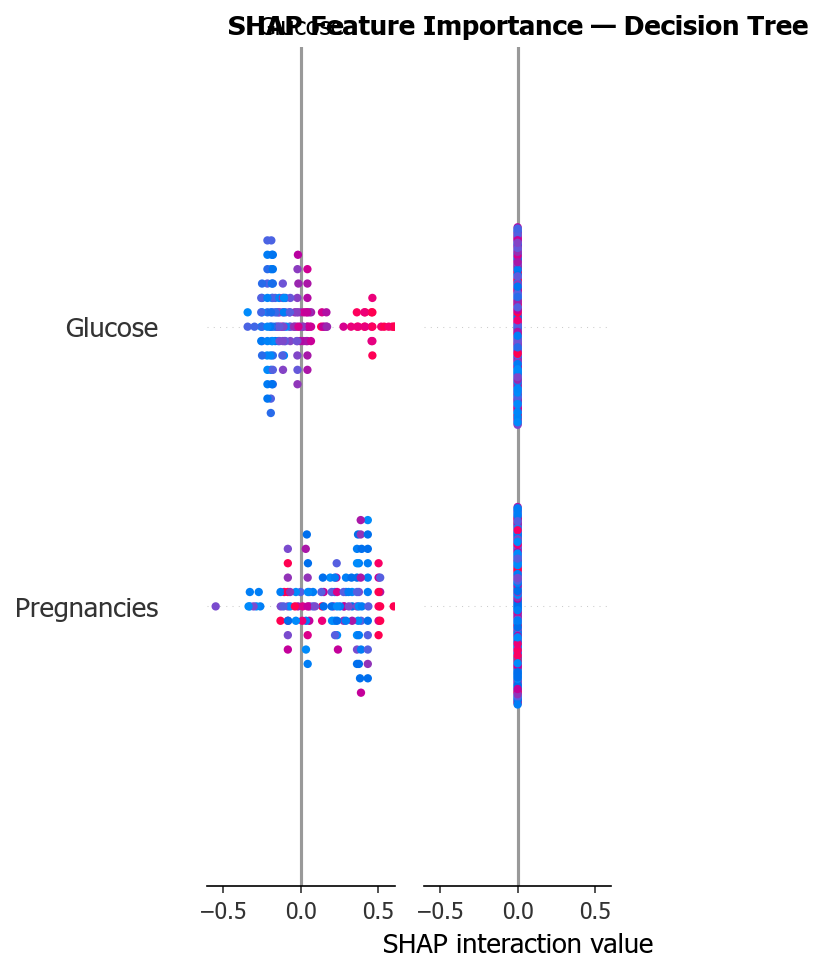
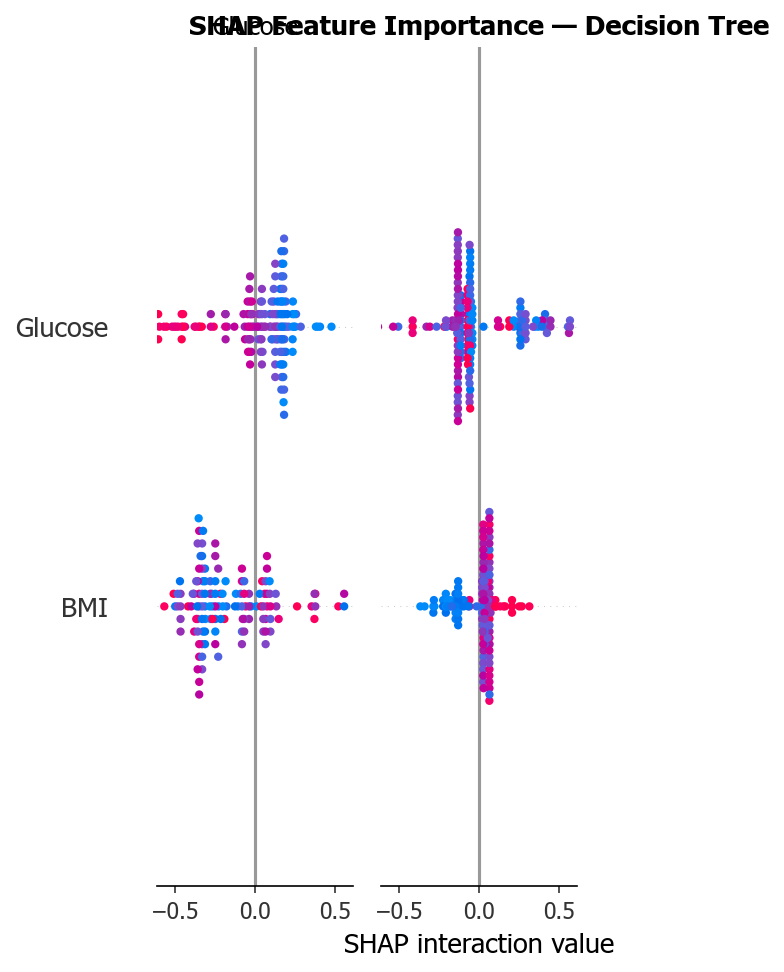
fix: update step4_shap and main.py to use 4 features

Changed region(s): [[0.0306, 0.0, 0.7959, 0.9877], [0.7347, 0.0, 0.9796, 0.0617]]

diff --git a/step4_shap.py b/step4_shap.py
@@ -14,7 +14,8 @@ cols_with_zero = ['Glucose', 'BloodPressure', 'SkinThickness', 'Insulin', 'BMI']
 for col in cols_with_zero:
     df[col] = df[col].replace(0, df[col].median())
 
-X = df.drop('Outcome', axis=1)
+SELECTED_FEATURES = ['Glucose', 'BMI', 'Age', 'Pregnancies']
+X = df[SELECTED_FEATURES]
 y = df['Outcome']
 
 X_train, X_test, y_train, y_test = train_test_split(
@@ -115,7 +116,7 @@ prob       = ann.predict_proba(sample)[0][1]
 bg           = joblib.load("models/shap_background.pkl")
 exp_ann_test = shap.KernelExplainer(ann.predict_proba, bg)
 sv_single    = exp_ann_test.shap_values(sample, nsamples=100)
-sv_single1 = np.array(sv_single).flatten()[8:]
+sv_single1 = np.array(sv_single).flatten()[4:]
 
 feature_impact = pd.Series(np.abs(sv_single1), index=X.columns)
 top3 = feature_impact.nlargest(3)

diff --git a/main.py b/main.py
@@ -57,7 +57,7 @@ def get_shap_top3(model_key, input_scaled, input_raw):
     else:
         explainer  = shap.KernelExplainer(model.predict_proba, background)
         sv         = explainer.shap_values(X_df, nsamples=100)
-        sv1        = np.array(sv).flatten()[8:]
+        sv1 = np.array(sv).flatten()[4:]
 
     impact = pd.Series(np.abs(sv1), index=feature_names)
     top3   = impact.nlargest(3)
